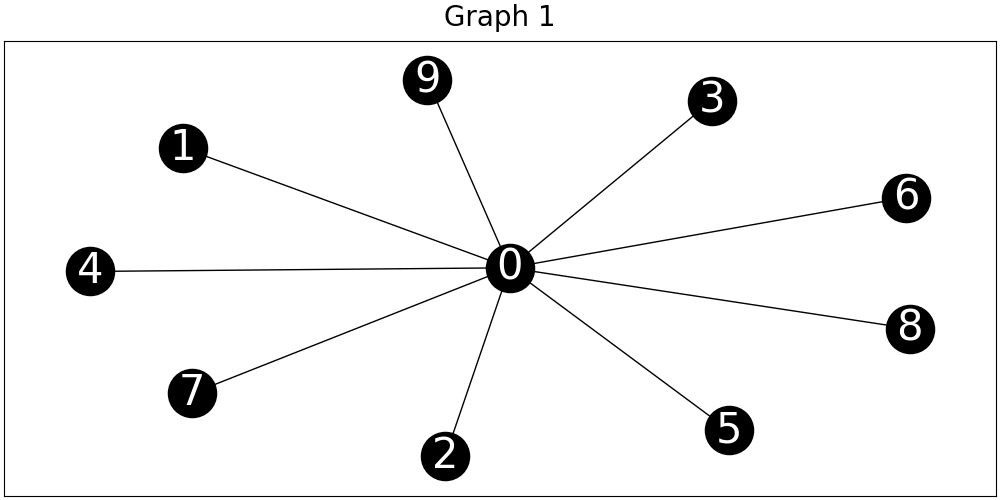
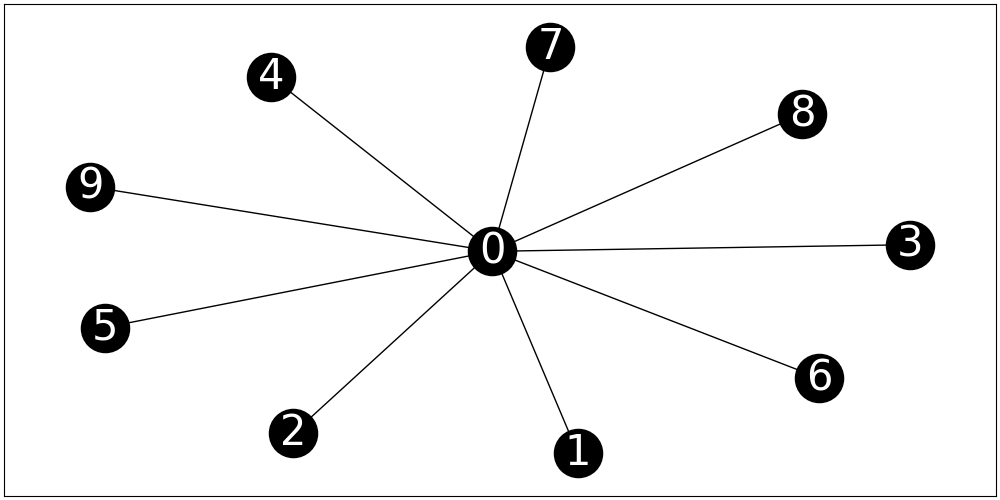
updates

diff --git a/cvf-analysis/plot_results_v2.py b/cvf-analysis/plot_results_v2.py
@@ -43,18 +43,19 @@ fontsize = 20
 
 graph_names_map = {
     COLORING_PROGRAM: {
-        "graph_1",
-        "graph_2",
-        "graph_3",
-        "graph_6",
-        "graph_6b",
+        # "graph_1",
+        # "graph_2",
+        # "graph_3",
+        # "graph_6",
+        # "graph_6b",
         "graph_7",
     },
     DIJKSTRA_PROGRAM: {
-        "implicit_graph_n10",
-        "implicit_graph_n11",
-        "implicit_graph_n12",
-        "implicit_graph_n13",
+        "implicit_graph_n5",
+        # "implicit_graph_n10",
+        # "implicit_graph_n11",
+        # "implicit_graph_n12",
+        # "implicit_graph_n13",
     },
     MAX_MATCHING_PROGRAM: {
         "graph_1",
@@ -79,7 +80,7 @@ graph_names_map = {
         # "0.8_1.9__0.025__2__test_lr_graph_1",
         # "0.8_1.9__0.025__1__test_lr_graph_1",
         # "0.8_1.9__0.025__2__test_lr_graph_1",
-        # "1.7_1.9__0.025__matrix_4__test_lr_graph_1",
+        # "1.3_1.9__0.025__matrix_4__test_lr_graph_1",
         "1.3_1.9__0.025__matrix_6__test_lr_graph_1",
         # "0.7_1.9__0.025__test_lr_graph_1",
         # "0.9_1.9__0.025__test_lr_graph_1",
@@ -107,27 +108,6 @@ def get_df(graph_name):
     return df
 
 
-def plot_node_rank_effect(node, df, ax):
-    df = df.loc[df["CVF (Avg)"] > 0]
-    sns.lineplot(data=df, x="Rank Effect", y="CVF (Avg)", ax=ax, marker="o")
-    ax.set(xlabel=f"Rank Effect of Node: {node}", ylabel="Count")
-    ax.tick_params(axis="x", labelsize=20)
-    ax.tick_params(axis="y", labelsize=20)
-    ax.xaxis.label.set_size(fontsize)
-    ax.yaxis.label.set_size(fontsize)
-    ax.set_title("CVF Avg")
-    if df.shape[0] > 0:
-        ax.set_yscale("log")
-
-
-def plot_node_rank_effect_max(node, df, ax):
-    df = df.loc[df["CVF (Max)"] > 0]
-    sns.lineplot(data=df, x="Rank Effect", y="CVF (Max)", ax=ax)
-    ax.set(xlabel=f"Rank Effect of Node: {node}", ylabel="Count")
-    ax.set_title("CVF Max")
-    if df.shape[0] > 0:
-        ax.set_yscale("log")
-
 
 def create_plots_dir_if_not_exists():
     if not os.path.exists(plots_dir):
@@ -135,7 +115,7 @@ def create_plots_dir_if_not_exists():
 
 
 create_plots_dir_if_not_exists()
-plt.figure(figsize=(18, 10))
+plt.figure(figsize=(16, 8))
 
 for graph_name in graph_names:
     df = get_df(graph_name)
@@ -156,24 +136,62 @@ for graph_name in graph_names:
     df_preproc.set_index("Rank Effect", inplace=True)
 
     ax = sns.lineplot(
-        data=df_preproc[[f"Node {i}" for i in nodes]], marker="."
+        data=df_preproc[[f"Node {i}" for i in nodes]], linewidth=3, markersize=8
     )
+
+    ax.lines[0].set_marker('*')
+    ax.lines[1].set_marker('o')
+    ax.lines[2].set_marker('h')
+    ax.lines[3].set_marker('v')
+    ax.lines[4].set_marker('P')
+
+
+    ax.lines[5].set_marker('*')
+    ax.lines[6].set_marker('o')
+    ax.lines[7].set_marker('h')
+    ax.lines[8].set_marker('v')
+    ax.lines[9].set_marker('P')
+
+    
+    # ax.lines[5].set_marker('s')
+    # ax.lines[6].set_marker('p')
+    # ax.lines[7].set_marker('x')
+    # # ax.lines[8].set_marker('D')
+    # # ax.lines[9].set_marker('8')
+    # ax.lines[8].set_marker('*')
+    # ax.lines[9].set_marker('o')
+    # ax.lines[10].set_marker('h')
+    # ax.lines[11].set_marker('v')
+    # ax.lines[12].set_marker('P')
+    # ax.lines[13].set_marker('s')
+    # ax.lines[14].set_marker('p')
+    # ax.lines[15].set_marker('x')
+    # ax.lines[18].set_marker('D')
+    # ax.lines[19].set_marker('8')
     ax.set_xlabel("Rank Effect")
+    print(ax.lines)
 
     # Set custom ticks and labels
+    ax.set_xlim(-16, 16)
     ax.set_yscale("log")
-    ax.set_ylabel("Count", rotation=0, labelpad=20)
+    ax.set_ylabel("Count")
+    ax.tick_params(axis="x", labelsize=fontsize)
+    ax.tick_params(axis="y", labelsize=fontsize)
+    ax.xaxis.label.set_size(fontsize)
+    ax.yaxis.label.set_size(fontsize)
     file_name = f"rank_effect_by_node__{analysis_type}__{program}__{graph_name}"
     # fig_title = (
     #     f"Distribution of rank effects at node {index[0]} in {program_label} problem"
     # )
     # fig.suptitle(fig_title, fontsize=fontsize)
-    plt.rc("font", size=20)
+    plt.rc("font", size=fontsize)
+    plt.legend(fontsize=fontsize*0.9) # using a size in points
     plt.savefig(
         os.path.join(
             plots_dir,
             f"{file_name}.png",
-        )
+        ),
+        bbox_inches='tight'
     )
     plt.close()
 

diff --git a/cvf-analysis/plot_graphs.py b/cvf-analysis/plot_graphs.py
@@ -12,11 +12,11 @@ graph_names = [
     # "graph_8",
     # "graph_4",
     # "graph_5",
-    "test_lr_graph_1",
+    "test_lr_graph_6",
 ]
 
 planar = False
-fontsize = 20
+fontsize = 25
 
 for gname in graph_names:
     G = nx.read_adjlist(f"graphs/{gname}.txt")
@@ -27,6 +27,6 @@ for gname in graph_names:
     else:
         nx.draw_networkx(G, node_color="black", font_color="white", ax=fig.add_subplot(), font_size=30, node_size=1200)
 
-    fig.suptitle(f"Graph {gname.split("_")[1]}", fontsize=fontsize)
+    # fig.suptitle(f"Graph {gname.split("_")[1]}", fontsize=fontsize)
     fig.savefig(f"graph_images/{gname}.png")
     # plt.show()

diff --git a/cvf-analysis/lr_configs/matrix_6.py b/cvf-analysis/lr_configs/matrix_6.py
@@ -26,3 +26,9 @@ doubly_stochastic_matrix = [
     [1 / 8, 3 / 8, 0, 4 / 8, 0],
     [1 / 4, 0, 0, 0, 3 / 4],
 ]
+
+# 0: keeping 0.25 sharing 0.75
+# 1: keeping 0.5 sharing 0.5
+# 2: keeping 0.75 sharing 0.25
+# 3: keeping 0.5 sharing 0.5
+# 4: keeping 0.75 sharing 0.25
